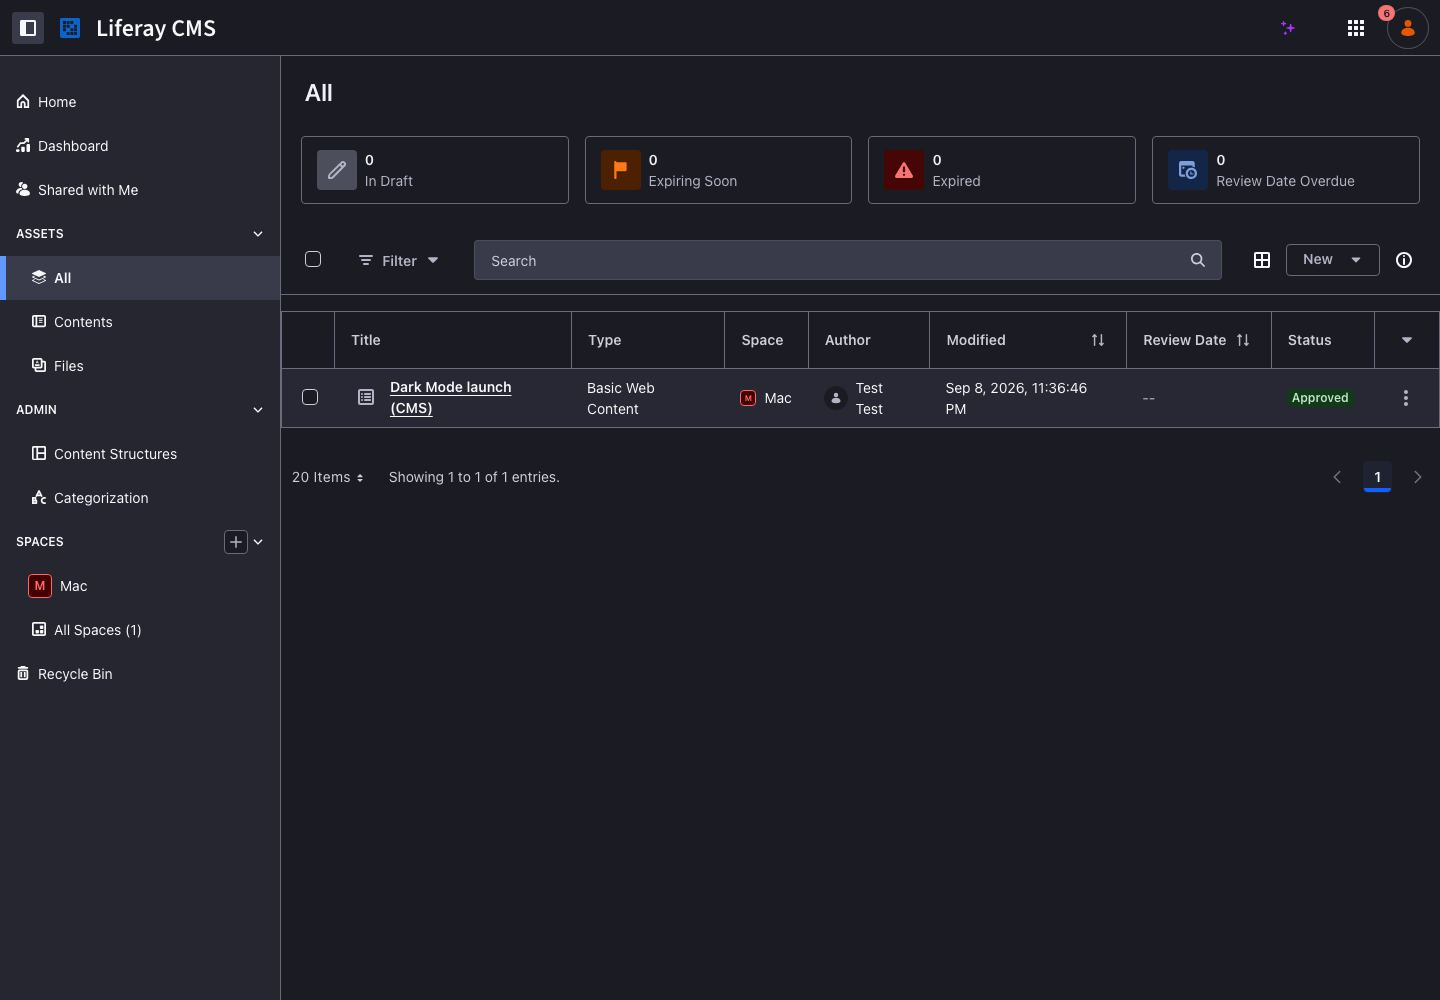
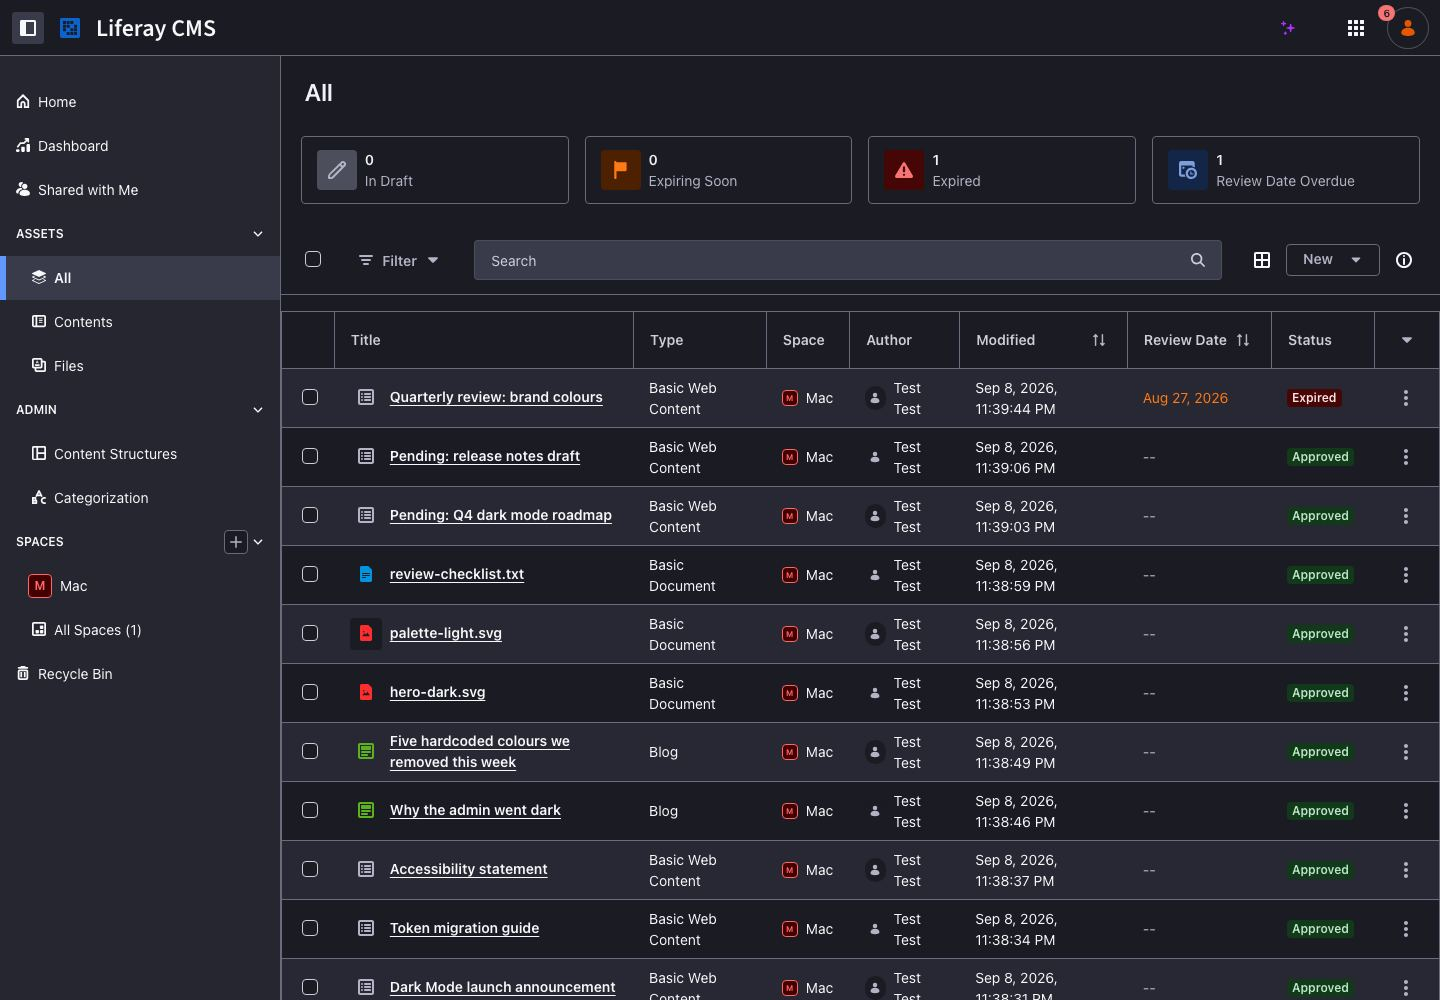
Recapture CMS with object-based space content

diff --git a/README.md b/README.md
@@ -25,6 +25,7 @@ Empty screens hide most dark mode issues, so the capture runs against seeded dat
 - Demo modules from the repository deployed into `osgi/portal`: `users-admin-demo` and `portal-workflow-metrics-demo` with their `*-demo-data-creator` dependencies. Do **not** deploy `message-boards-demo`: it inserts thousands of messages inside a single transaction and blocks the portal for an hour on Hypersonic.
 - `seed/seed-api.js`: Knowledge Base, Message Boards, blogs, web content, documents, a picklist, an object with entries, a notification template, a search blueprint and a publication, through REST APIs. Idempotent.
 - `seed/seed-space-orders.js`: documents and web contents inside the first CMS Space (with Single Approver so two items stay pending) and four Commerce orders plus a shipment on the Minium Full data. The CMS only lists assets that live in a Space, so site content never shows there.
+- `seed/seed-cms.js`: CMS assets are Object entries (CMSBasicWebContent, CMSBlog, CMSBasicDocument) scoped to a Space; this seeds web contents, blogs and documents through `/o/cms/*`, plus one expired asset with a past review date.
 - `seed/seed-ui.js`: a published form, a synonym set, a result ranking and Single Approver on Blogs, driven through the UI with Playwright.
 
 `bash seed/seed-all.sh` runs everything above and then recaptures every team.
